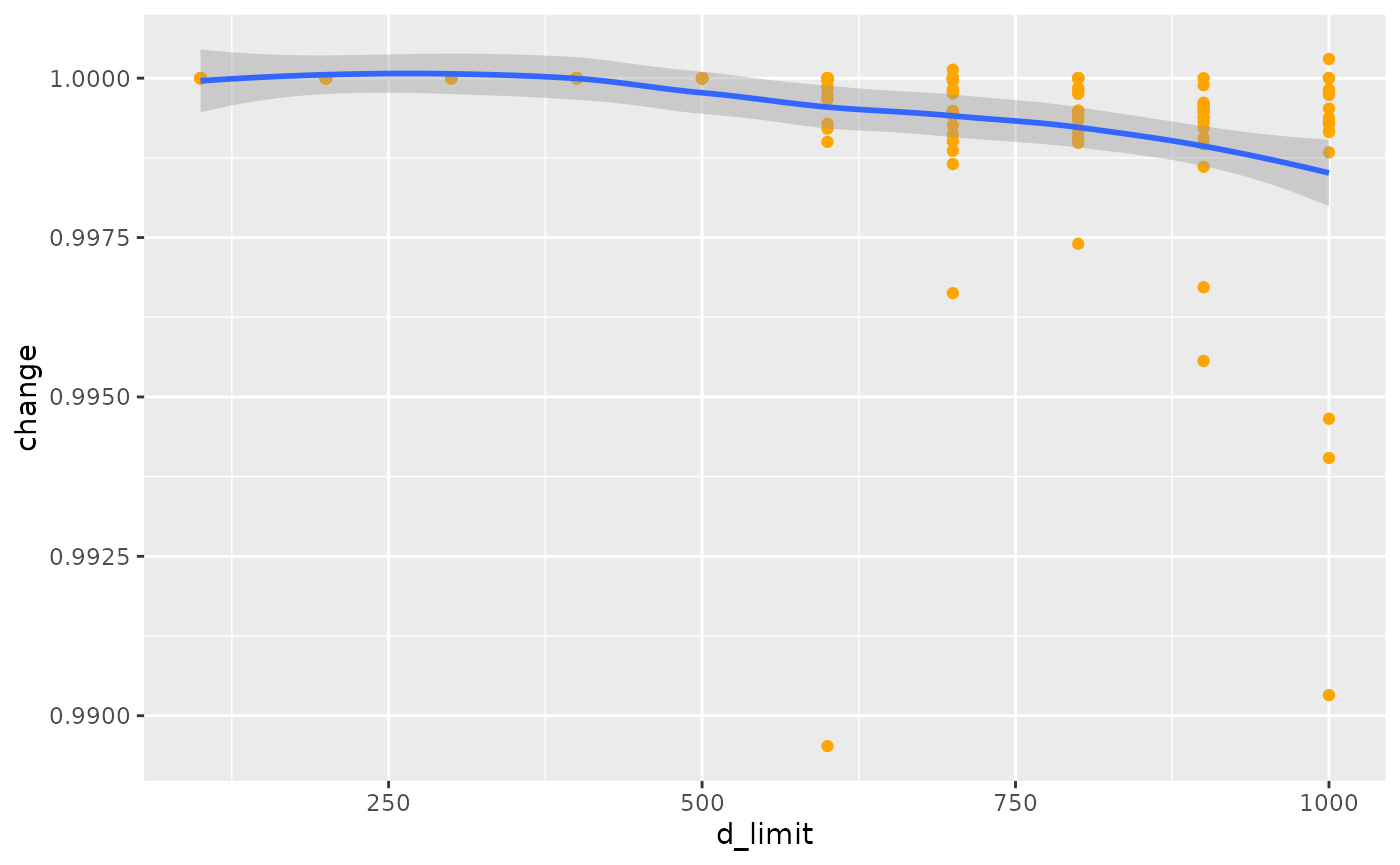
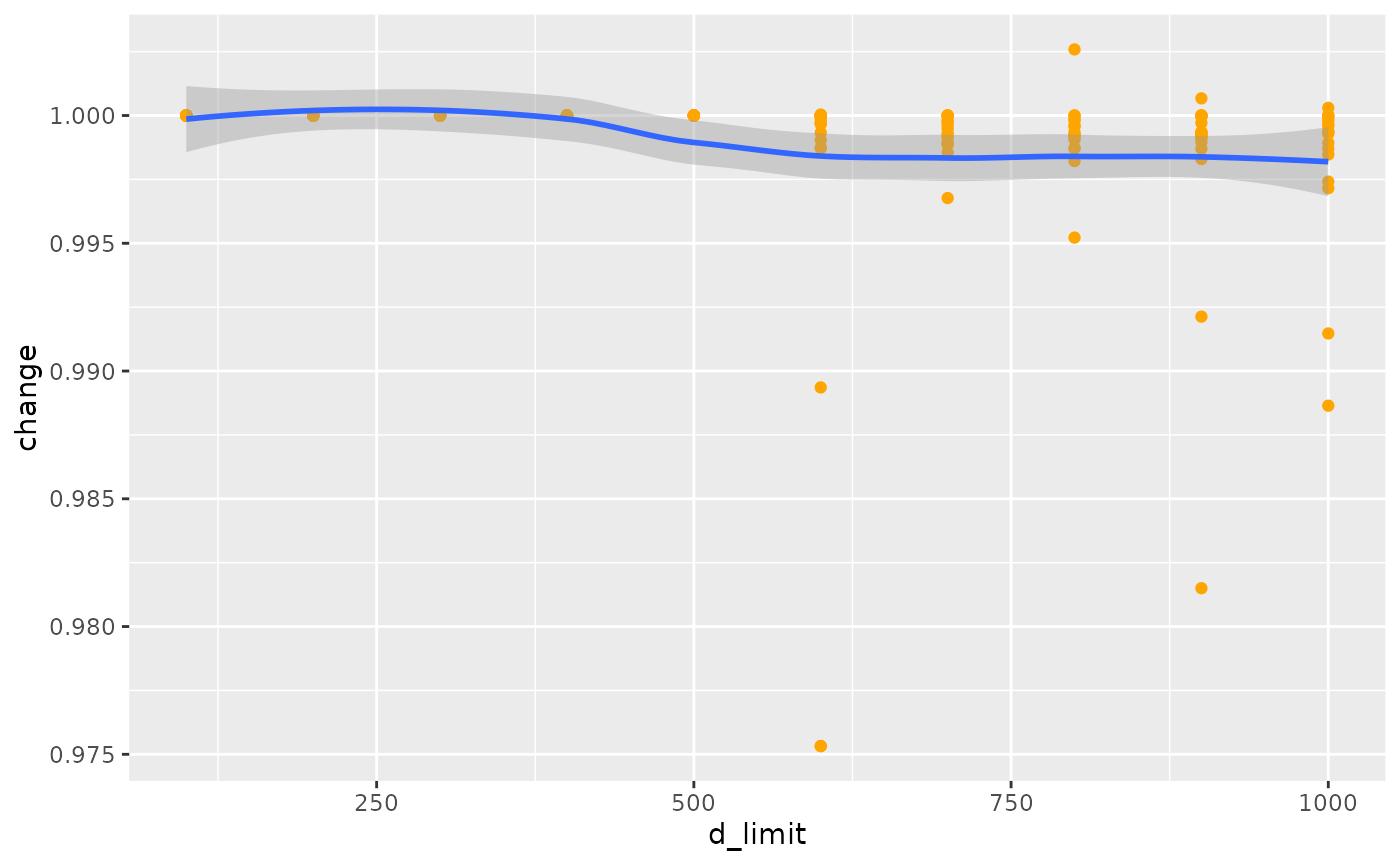
Deploying to gh-pages from @ ATFutures/gtfs-router@5fed2d2fdbcadecbe89e69d0f73cd9c62099b63e 🚀

diff --git a/docs/articles/transfers.html b/docs/articles/transfers.html
@@ -33,7 +33,7 @@
       </button>
       <span class="navbar-brand">
         <a class="navbar-link" href="../index.html">gtfsrouter</a>
-        <span class="version label label-default" data-toggle="tooltip" data-placement="bottom" title="">0.0.5.100</span>
+        <span class="version label label-default" data-toggle="tooltip" data-placement="bottom" title="">0.0.5.101</span>
       </span>
     </div>
 
@@ -72,7 +72,7 @@
       <h1 data-toc-skip>Transfer Tables</h1>
                         <h4 data-toc-skip class="author">Mark Padgham</h4>
             
-            <h4 data-toc-skip class="date">2022-08-17</h4>
+            <h4 data-toc-skip class="date">2022-09-21</h4>
       
       <small class="dont-index">Source: <a href="https://github.com/ATFutures/gtfs-router/blob/HEAD/vignettes/transfers.Rmd" class="external-link"><code>vignettes/transfers.Rmd</code></a></small>
       <div class="hidden name"><code>transfers.Rmd</code></div>
@@ -447,7 +447,7 @@
 <span>    <span class="fu"><a href="https://ggplot2.tidyverse.org/reference/scale_continuous.html" class="external-link">scale_y_log10</a></span> <span class="op">(</span><span class="op">)</span> <span class="op">+</span></span>
 <span>    <span class="fu"><a href="https://ggplot2.tidyverse.org/reference/labs.html" class="external-link">xlab</a></span> <span class="op">(</span><span class="st">"time difference (minutes)"</span><span class="op">)</span></span></code></pre></div>
 <p><img src="transfers_files/figure-html/plot1-1.png" width="700"></p>
-<p>And these additional transfer possibilities can make a significant difference to estimated travel times. Note, however, that the travel times only changed for 669 stations, while the value of <code>nsame</code> value recording numbers of stations for which travel times did not change was 5,384. Travel times may also increase as additional transfers may be used to reduce numbers of connecting services required for a particular trip, and the algorithm generally searches for connections with minimal numbers of transfers.</p>
+<p>And these additional transfer possibilities can make a significant difference to estimated travel times. Note, however, that the travel times only changed for 461 stations, while the value of <code>nsame</code> value recording numbers of stations for which travel times did not change was 3,896. Travel times may also increase as additional transfers may be used to reduce numbers of connecting services required for a particular trip, and the algorithm generally searches for connections with minimal numbers of transfers.</p>
 <p>The following code the quantifies the overall effect of these reductions in travel times, measured as the linear reduction in comparison with travel times calculated using the original transfers table provided with the feed. The function also returns the proportion of all stations for which travel times were affected by the modified transfer table.</p>
 <div class="sourceCode" id="cb42"><pre class="downlit sourceCode r">
 <code class="sourceCode R"><span><span class="va">transfer_difference</span> <span class="op">&lt;-</span> <span class="kw">function</span> <span class="op">(</span><span class="va">gtfs</span>,</span>
@@ -514,7 +514,7 @@
 <span>    <span class="fu"><a href="https://ggplot2.tidyverse.org/reference/geom_point.html" class="external-link">geom_point</a></span> <span class="op">(</span>pch <span class="op">=</span> <span class="fl">19</span>, col <span class="op">=</span> <span class="st">"orange"</span><span class="op">)</span> <span class="op">+</span></span>
 <span>    <span class="fu"><a href="https://ggplot2.tidyverse.org/reference/geom_smooth.html" class="external-link">geom_smooth</a></span> <span class="op">(</span>method <span class="op">=</span> <span class="st">"loess"</span>, formula <span class="op">=</span> <span class="st">"y ~ x"</span><span class="op">)</span></span></code></pre></div>
 <p><img src="transfers_files/figure-html/transfer_d_limit_results-1.png" width="700"></p>
-<p>That result shows that travel times do decrease with increasing limits of maximal transfer distance, although the overall effect is very minimal. The object <code>d</code> also records the proportion of station pairs for which modifications to the transfers table actually changed travel times, which in this case amounts to a mean value of 0.0038, clearly revealing that very few trips actually change.</p>
+<p>That result shows that travel times do decrease with increasing limits of maximal transfer distance, although the overall effect is very minimal. The object <code>d</code> also records the proportion of station pairs for which modifications to the transfers table actually changed travel times, which in this case amounts to a mean value of 0.0061, clearly revealing that very few trips actually change.</p>
 <div class="section level3">
 <h3 id="a-more-realistic-example">A more realistic example<a class="anchor" aria-label="anchor" href="#a-more-realistic-example"></a>
 </h3>

diff --git a/docs/articles/gtfsrouter.html b/docs/articles/gtfsrouter.html
@@ -33,7 +33,7 @@
       </button>
       <span class="navbar-brand">
         <a class="navbar-link" href="../index.html">gtfsrouter</a>
-        <span class="version label label-default" data-toggle="tooltip" data-placement="bottom" title="">0.0.5.100</span>
+        <span class="version label label-default" data-toggle="tooltip" data-placement="bottom" title="">0.0.5.101</span>
       </span>
     </div>
 
@@ -72,7 +72,7 @@
       <h1 data-toc-skip>gtfsrouter</h1>
                         <h4 data-toc-skip class="author">Mark Padgham</h4>
             
-            <h4 data-toc-skip class="date">2022-08-17</h4>
+            <h4 data-toc-skip class="date">2022-09-21</h4>
       
       <small class="dont-index">Source: <a href="https://github.com/ATFutures/gtfs-router/blob/HEAD/vignettes/gtfsrouter.Rmd" class="external-link"><code>vignettes/gtfsrouter.Rmd</code></a></small>
       <div class="hidden name"><code>gtfsrouter.Rmd</code></div>
@@ -95,7 +95,7 @@
 <p>The one thing neither of these packages enable is the use of GTFS data for transit routing. The <code>gtfsrouter</code> package enables both one-to-one and one-to-many routing. Functionality is demonstrated here through the sample data set included with the package, provided by the “Verkehrsverbund Berlin-Brandenburg” (VBB; or Transport Network Berlin-Brandenburg). The <code>berlin_gtfs</code> data represents a reduced version of the full GTFS data, containing only six tables, and a timetable reduced to the single hour between 12:00-13:00. Like all GTFS software including <a href="https://github.com/r-transit/tidytransit" class="external-link"><code>tidytransit</code></a>, this package is designed to work directly with GTFS data in <code>.zip</code>-archived format, and so includes a helper function, <code><a href="../reference/berlin_gtfs_to_zip.html">berlin_gtfs_to_zip()</a></code>, which exports the internal data set to a locally-stored <code>.zip</code> archive in the <code><a href="https://rdrr.io/r/base/tempfile.html" class="external-link">tempdir()</a></code> of the current <strong>R</strong> session. These data can be exported and re-imported with:</p>
 <div class="sourceCode" id="cb1"><pre class="downlit sourceCode r">
 <code class="sourceCode R"><span><span class="fu"><a href="../reference/berlin_gtfs_to_zip.html">berlin_gtfs_to_zip</a></span><span class="op">(</span><span class="op">)</span></span></code></pre></div>
-<pre><code><span><span class="co">## [1] "/tmp/Rtmpo3vffr/vbb.zip"</span></span></code></pre>
+<pre><code><span><span class="co">## [1] "/tmp/RtmpgCS5mX/vbb.zip"</span></span></code></pre>
 <div class="sourceCode" id="cb3"><pre class="downlit sourceCode r">
 <code class="sourceCode R"><span><span class="va">f</span> <span class="op">&lt;-</span> <span class="fu"><a href="https://rdrr.io/r/base/file.path.html" class="external-link">file.path</a></span> <span class="op">(</span><span class="fu"><a href="https://rdrr.io/r/base/tempfile.html" class="external-link">tempdir</a></span> <span class="op">(</span><span class="op">)</span>, <span class="st">"vbb.zip"</span><span class="op">)</span></span>
 <span><span class="fu"><a href="https://rdrr.io/r/base/files.html" class="external-link">file.exists</a></span> <span class="op">(</span><span class="va">f</span><span class="op">)</span></span></code></pre></div>
@@ -286,7 +286,7 @@
 <span>                day <span class="op">=</span> <span class="st">"Sunday"</span><span class="op">)</span></span>
 <span>    <span class="op">)</span></span></code></pre></div>
 <pre><code><span><span class="co">##    user  system elapsed </span></span>
-<span><span class="co">##   0.073   0.000   0.073</span></span></code></pre>
+<span><span class="co">##   0.065   0.000   0.064</span></span></code></pre>
 <div class="sourceCode" id="cb14"><pre class="downlit sourceCode r">
 <code class="sourceCode R"><span><span class="fu"><a href="https://rdrr.io/r/base/names.html" class="external-link">names</a></span> <span class="op">(</span><span class="va">gtfs</span><span class="op">)</span></span></code></pre></div>
 <pre><code><span><span class="co">## [1] "calendar"   "routes"     "trips"      "stop_times" "stops"     </span></span>
@@ -304,7 +304,7 @@
 <span>                         to <span class="op">=</span> <span class="va">to</span>,</span>
 <span>                         start_time <span class="op">=</span> <span class="st">"12:00:00"</span><span class="op">)</span><span class="op">)</span></span></code></pre></div>
 <pre><code><span><span class="co">##    user  system elapsed </span></span>
-<span><span class="co">##   0.059   0.000   0.059</span></span></code></pre>
+<span><span class="co">##   0.049   0.000   0.049</span></span></code></pre>
 <p>Note that the <code>day</code> parameter is used to extract the timetable, after which it is no longer required in the actual call to <code><a href="../reference/gtfs_route.html">gtfs_route()</a></code>.</p>
 </div>
 <div class="section level3">

diff --git a/docs/articles/traveltimes.html b/docs/articles/traveltimes.html
@@ -33,7 +33,7 @@
       </button>
       <span class="navbar-brand">
         <a class="navbar-link" href="../index.html">gtfsrouter</a>
-        <span class="version label label-default" data-toggle="tooltip" data-placement="bottom" title="">0.0.5.100</span>
+        <span class="version label label-default" data-toggle="tooltip" data-placement="bottom" title="">0.0.5.101</span>
       </span>
     </div>
 
@@ -72,7 +72,7 @@
       <h1 data-toc-skip>Travel Times</h1>
                         <h4 data-toc-skip class="author">Mark Padgham &amp; Alexandra Kapp</h4>
             
-            <h4 data-toc-skip class="date">2022-08-17</h4>
+            <h4 data-toc-skip class="date">2022-09-21</h4>
       
       <small class="dont-index">Source: <a href="https://github.com/ATFutures/gtfs-router/blob/HEAD/vignettes/traveltimes.Rmd" class="external-link"><code>vignettes/traveltimes.Rmd</code></a></small>
       <div class="hidden name"><code>traveltimes.Rmd</code></div>
@@ -86,7 +86,7 @@
 <div class="sourceCode" id="cb1"><pre class="downlit sourceCode r">
 <code class="sourceCode R"><span><span class="kw"><a href="https://rdrr.io/r/base/library.html" class="external-link">library</a></span> <span class="op">(</span><span class="va"><a href="https://github.com/ATFutures/gtfs-router" class="external-link">gtfsrouter</a></span><span class="op">)</span></span>
 <span><span class="fu"><a href="../reference/berlin_gtfs_to_zip.html">berlin_gtfs_to_zip</a></span> <span class="op">(</span><span class="op">)</span></span></code></pre></div>
-<pre><code><span><span class="co">## [1] "/tmp/Rtmpqy8Cuo/vbb.zip"</span></span></code></pre>
+<pre><code><span><span class="co">## [1] "/tmp/RtmpFMMNQF/vbb.zip"</span></span></code></pre>
 <div class="sourceCode" id="cb3"><pre class="downlit sourceCode r">
 <code class="sourceCode R"><span><span class="va">f</span> <span class="op">&lt;-</span> <span class="fu"><a href="https://rdrr.io/r/base/file.path.html" class="external-link">file.path</a></span> <span class="op">(</span><span class="fu"><a href="https://rdrr.io/r/base/tempfile.html" class="external-link">tempdir</a></span> <span class="op">(</span><span class="op">)</span>, <span class="st">"vbb.zip"</span><span class="op">)</span></span>
 <span><span class="va">gtfs</span> <span class="op">&lt;-</span> <span class="fu"><a href="../reference/extract_gtfs.html">extract_gtfs</a></span> <span class="op">(</span><span class="va">f</span>, quiet <span class="op">=</span> <span class="cn">TRUE</span><span class="op">)</span></span>

diff --git a/docs/reference/gtfs_transfer_table.html b/docs/reference/gtfs_transfer_table.html
@@ -17,7 +17,7 @@
       </button>
       <span class="navbar-brand">
         <a class="navbar-link" href="../index.html">gtfsrouter</a>
-        <span class="version label label-default" data-toggle="tooltip" data-placement="bottom" title="">0.0.5.100</span>
+        <span class="version label label-default" data-toggle="tooltip" data-placement="bottom" title="">0.0.5.101</span>
       </span>
     </div>
 
@@ -112,7 +112,7 @@ throughout the underlying street network. If this is not provided as the
     <div id="ref-examples">
     <h2>Examples</h2>
     <div class="sourceCode"><pre class="sourceCode r"><code><span class="r-in"><span><span class="fu"><a href="berlin_gtfs_to_zip.html">berlin_gtfs_to_zip</a></span> <span class="op">(</span><span class="op">)</span></span></span>
-<span class="r-out co"><span class="r-pr">#&gt;</span> [1] "/tmp/Rtmp73Rf3x/vbb.zip"</span>
+<span class="r-out co"><span class="r-pr">#&gt;</span> [1] "/tmp/RtmpMFn162/vbb.zip"</span>
 <span class="r-in"><span><span class="va">f</span> <span class="op">&lt;-</span> <span class="fu"><a href="https://rdrr.io/r/base/file.path.html" class="external-link">file.path</a></span> <span class="op">(</span><span class="fu"><a href="https://rdrr.io/r/base/tempfile.html" class="external-link">tempdir</a></span> <span class="op">(</span><span class="op">)</span>, <span class="st">"vbb.zip"</span><span class="op">)</span></span></span>
 <span class="r-in"><span><span class="va">g</span> <span class="op">&lt;-</span> <span class="fu"><a href="extract_gtfs.html">extract_gtfs</a></span> <span class="op">(</span><span class="va">f</span>, quiet <span class="op">=</span> <span class="cn">TRUE</span><span class="op">)</span></span></span>
 <span class="r-in"><span><span class="va">g</span> <span class="op">&lt;-</span> <span class="fu">gtfs_transfer_table</span> <span class="op">(</span><span class="va">g</span>, d_limit <span class="op">=</span> <span class="fl">200</span><span class="op">)</span></span></span>

diff --git a/docs/reference/gtfs_route.html b/docs/reference/gtfs_route.html
@@ -18,7 +18,7 @@ a specified time."><!-- mathjax --><script src="https://cdnjs.cloudflare.com/aja
       </button>
       <span class="navbar-brand">
         <a class="navbar-link" href="../index.html">gtfsrouter</a>
-        <span class="version label label-default" data-toggle="tooltip" data-placement="bottom" title="">0.0.5.100</span>
+        <span class="version label label-default" data-toggle="tooltip" data-placement="bottom" title="">0.0.5.101</span>
       </span>
     </div>
 
@@ -182,7 +182,7 @@ can be calculated by setting <code>earliest_arrival = FALSE</code>.</p>
     <div id="ref-examples">
     <h2>Examples</h2>
     <div class="sourceCode"><pre class="sourceCode r"><code><span class="r-in"><span><span class="fu"><a href="berlin_gtfs_to_zip.html">berlin_gtfs_to_zip</a></span> <span class="op">(</span><span class="op">)</span> <span class="co"># Write sample feed from Berlin, Germany to tempdir</span></span></span>
-<span class="r-out co"><span class="r-pr">#&gt;</span> [1] "/tmp/Rtmp73Rf3x/vbb.zip"</span>
+<span class="r-out co"><span class="r-pr">#&gt;</span> [1] "/tmp/RtmpMFn162/vbb.zip"</span>
 <span class="r-in"><span><span class="va">f</span> <span class="op">&lt;-</span> <span class="fu"><a href="https://rdrr.io/r/base/file.path.html" class="external-link">file.path</a></span> <span class="op">(</span><span class="fu"><a href="https://rdrr.io/r/base/tempfile.html" class="external-link">tempdir</a></span> <span class="op">(</span><span class="op">)</span>, <span class="st">"vbb.zip"</span><span class="op">)</span> <span class="co"># name of feed</span></span></span>
 <span class="r-in"><span><span class="va">gtfs</span> <span class="op">&lt;-</span> <span class="fu"><a href="extract_gtfs.html">extract_gtfs</a></span> <span class="op">(</span><span class="va">f</span><span class="op">)</span></span></span>
 <span class="r-msg co"><span class="r-pr">#&gt;</span> ▶<span style="color: #00BB00;"> Unzipping GTFS archive</span></span>

diff --git a/docs/reference/berlin_gtfs.html b/docs/reference/berlin_gtfs.html
@@ -23,7 +23,7 @@ characters.'><!-- mathjax --><script src="https://cdnjs.cloudflare.com/ajax/libs
       </button>
       <span class="navbar-brand">
         <a class="navbar-link" href="../index.html">gtfsrouter</a>
-        <span class="version label label-default" data-toggle="tooltip" data-placement="bottom" title="">0.0.5.100</span>
+        <span class="version label label-default" data-toggle="tooltip" data-placement="bottom" title="">0.0.5.101</span>
       </span>
     </div>
 
@@ -96,7 +96,7 @@ for which no route is possible return <code>NULL</code>.</p>
     <div id="ref-examples">
     <h2>Examples</h2>
     <div class="sourceCode"><pre class="sourceCode r"><code><span class="r-in"><span><span class="fu"><a href="berlin_gtfs_to_zip.html">berlin_gtfs_to_zip</a></span> <span class="op">(</span><span class="op">)</span> <span class="co"># Write sample feed from Berlin, Germany to tempdir</span></span></span>
-<span class="r-out co"><span class="r-pr">#&gt;</span> [1] "/tmp/Rtmp73Rf3x/vbb.zip"</span>
+<span class="r-out co"><span class="r-pr">#&gt;</span> [1] "/tmp/RtmpMFn162/vbb.zip"</span>
 <span class="r-in"><span><span class="va">f</span> <span class="op">&lt;-</span> <span class="fu"><a href="https://rdrr.io/r/base/file.path.html" class="external-link">file.path</a></span> <span class="op">(</span><span class="fu"><a href="https://rdrr.io/r/base/tempfile.html" class="external-link">tempdir</a></span> <span class="op">(</span><span class="op">)</span>, <span class="st">"vbb.zip"</span><span class="op">)</span> <span class="co"># name of feed</span></span></span>
 <span class="r-in"><span><span class="va">gtfs</span> <span class="op">&lt;-</span> <span class="fu"><a href="extract_gtfs.html">extract_gtfs</a></span> <span class="op">(</span><span class="va">f</span><span class="op">)</span></span></span>
 <span class="r-msg co"><span class="r-pr">#&gt;</span> ▶<span style="color: #00BB00;"> Unzipping GTFS archive</span></span>

diff --git a/docs/reference/gtfs_timetable.html b/docs/reference/gtfs_timetable.html
@@ -17,7 +17,7 @@
       </button>
       <span class="navbar-brand">
         <a class="navbar-link" href="../index.html">gtfsrouter</a>
-        <span class="version label label-default" data-toggle="tooltip" data-placement="bottom" title="">0.0.5.100</span>
+        <span class="version label label-default" data-toggle="tooltip" data-placement="bottom" title="">0.0.5.101</span>
       </span>
     </div>
 
@@ -126,7 +126,7 @@ that case will generally take longer.</p>
     <div id="ref-examples">
     <h2>Examples</h2>
     <div class="sourceCode"><pre class="sourceCode r"><code><span class="r-in"><span><span class="fu"><a href="berlin_gtfs_to_zip.html">berlin_gtfs_to_zip</a></span> <span class="op">(</span><span class="op">)</span> <span class="co"># Write sample feed from Berlin, Germany to tempdir</span></span></span>
-<span class="r-out co"><span class="r-pr">#&gt;</span> [1] "/tmp/Rtmp73Rf3x/vbb.zip"</span>
+<span class="r-out co"><span class="r-pr">#&gt;</span> [1] "/tmp/RtmpMFn162/vbb.zip"</span>
 <span class="r-in"><span><span class="va">f</span> <span class="op">&lt;-</span> <span class="fu"><a href="https://rdrr.io/r/base/file.path.html" class="external-link">file.path</a></span> <span class="op">(</span><span class="fu"><a href="https://rdrr.io/r/base/tempfile.html" class="external-link">tempdir</a></span> <span class="op">(</span><span class="op">)</span>, <span class="st">"vbb.zip"</span><span class="op">)</span> <span class="co"># name of feed</span></span></span>
 <span class="r-in"><span><span class="va">gtfs</span> <span class="op">&lt;-</span> <span class="fu"><a href="extract_gtfs.html">extract_gtfs</a></span> <span class="op">(</span><span class="va">f</span><span class="op">)</span></span></span>
 <span class="r-msg co"><span class="r-pr">#&gt;</span> ▶<span style="color: #00BB00;"> Unzipping GTFS archive</span></span>

diff --git a/docs/reference/gtfs_traveltimes.html b/docs/reference/gtfs_traveltimes.html
@@ -18,7 +18,7 @@ other reachable station in a system."><!-- mathjax --><script src="https://cdnjs
       </button>
       <span class="navbar-brand">
         <a class="navbar-link" href="../index.html">gtfsrouter</a>
-        <span class="version label label-default" data-toggle="tooltip" data-placement="bottom" title="">0.0.5.100</span>
+        <span class="version label label-default" data-toggle="tooltip" data-placement="bottom" title="">0.0.5.101</span>
       </span>
     </div>
 
@@ -155,7 +155,7 @@ to reach all or most stations desired for a particular query, rather than set
     <div id="ref-examples">
     <h2>Examples</h2>
     <div class="sourceCode"><pre class="sourceCode r"><code><span class="r-in"><span><span class="fu"><a href="berlin_gtfs_to_zip.html">berlin_gtfs_to_zip</a></span> <span class="op">(</span><span class="op">)</span></span></span>
-<span class="r-out co"><span class="r-pr">#&gt;</span> [1] "/tmp/Rtmp73Rf3x/vbb.zip"</span>
+<span class="r-out co"><span class="r-pr">#&gt;</span> [1] "/tmp/RtmpMFn162/vbb.zip"</span>
 <span class="r-in"><span><span class="va">f</span> <span class="op">&lt;-</span> <span class="fu"><a href="https://rdrr.io/r/base/file.path.html" class="external-link">file.path</a></span> <span class="op">(</span><span class="fu"><a href="https://rdrr.io/r/base/tempfile.html" class="external-link">tempdir</a></span> <span class="op">(</span><span class="op">)</span>, <span class="st">"vbb.zip"</span><span class="op">)</span></span></span>
 <span class="r-in"><span><span class="va">g</span> <span class="op">&lt;-</span> <span class="fu"><a href="extract_gtfs.html">extract_gtfs</a></span> <span class="op">(</span><span class="va">f</span><span class="op">)</span></span></span>
 <span class="r-msg co"><span class="r-pr">#&gt;</span> ▶<span style="color: #00BB00;"> Unzipping GTFS archive</span></span>

diff --git a/docs/reference/extract_gtfs.html b/docs/reference/extract_gtfs.html
@@ -17,7 +17,7 @@
       </button>
       <span class="navbar-brand">
         <a class="navbar-link" href="../index.html">gtfsrouter</a>
-        <span class="version label label-default" data-toggle="tooltip" data-placement="bottom" title="">0.0.5.100</span>
+        <span class="version label label-default" data-toggle="tooltip" data-placement="bottom" title="">0.0.5.101</span>
       </span>
     </div>
 
@@ -102,7 +102,7 @@ function to the two time columns of the "stop_times" table.</p>
     <div id="ref-examples">
     <h2>Examples</h2>
     <div class="sourceCode"><pre class="sourceCode r"><code><span class="r-in"><span><span class="fu"><a href="berlin_gtfs_to_zip.html">berlin_gtfs_to_zip</a></span> <span class="op">(</span><span class="op">)</span> <span class="co"># Write sample feed from Berlin, Germany to tempdir</span></span></span>
-<span class="r-out co"><span class="r-pr">#&gt;</span> [1] "/tmp/Rtmp73Rf3x/vbb.zip"</span>
+<span class="r-out co"><span class="r-pr">#&gt;</span> [1] "/tmp/RtmpMFn162/vbb.zip"</span>
 <span class="r-in"><span><span class="va">f</span> <span class="op">&lt;-</span> <span class="fu"><a href="https://rdrr.io/r/base/file.path.html" class="external-link">file.path</a></span> <span class="op">(</span><span class="fu"><a href="https://rdrr.io/r/base/tempfile.html" class="external-link">tempdir</a></span> <span class="op">(</span><span class="op">)</span>, <span class="st">"vbb.zip"</span><span class="op">)</span> <span class="co"># name of feed</span></span></span>
 <span class="r-in"><span><span class="va">gtfs</span> <span class="op">&lt;-</span> <span class="fu">extract_gtfs</span> <span class="op">(</span><span class="va">f</span><span class="op">)</span></span></span>
 <span class="r-msg co"><span class="r-pr">#&gt;</span> ▶<span style="color: #00BB00;"> Unzipping GTFS archive</span></span>

diff --git a/docs/reference/summary.gtfs.html b/docs/reference/summary.gtfs.html
@@ -17,7 +17,7 @@
       </button>
       <span class="navbar-brand">
         <a class="navbar-link" href="../index.html">gtfsrouter</a>
-        <span class="version label label-default" data-toggle="tooltip" data-placement="bottom" title="">0.0.5.100</span>
+        <span class="version label label-default" data-toggle="tooltip" data-placement="bottom" title="">0.0.5.101</span>
       </span>
     </div>
 
@@ -81,7 +81,7 @@
     <div id="ref-examples">
     <h2>Examples</h2>
     <div class="sourceCode"><pre class="sourceCode r"><code><span class="r-in"><span><span class="fu"><a href="berlin_gtfs_to_zip.html">berlin_gtfs_to_zip</a></span> <span class="op">(</span><span class="op">)</span></span></span>
-<span class="r-out co"><span class="r-pr">#&gt;</span> [1] "/tmp/Rtmp73Rf3x/vbb.zip"</span>
+<span class="r-out co"><span class="r-pr">#&gt;</span> [1] "/tmp/RtmpMFn162/vbb.zip"</span>
 <span class="r-in"><span><span class="va">f</span> <span class="op">&lt;-</span> <span class="fu"><a href="https://rdrr.io/r/base/file.path.html" class="external-link">file.path</a></span> <span class="op">(</span><span class="fu"><a href="https://rdrr.io/r/base/tempfile.html" class="external-link">tempdir</a></span> <span class="op">(</span><span class="op">)</span>, <span class="st">"vbb.zip"</span><span class="op">)</span></span></span>
 <span class="r-in"><span><span class="va">g</span> <span class="op">&lt;-</span> <span class="fu"><a href="extract_gtfs.html">extract_gtfs</a></span> <span class="op">(</span><span class="va">f</span><span class="op">)</span></span></span>
 <span class="r-msg co"><span class="r-pr">#&gt;</span> ▶<span style="color: #00BB00;"> Unzipping GTFS archive</span></span>

diff --git a/docs/authors.html b/docs/authors.html
@@ -17,7 +17,7 @@
       </button>
       <span class="navbar-brand">
         <a class="navbar-link" href="index.html">gtfsrouter</a>
-        <span class="version label label-default" data-toggle="tooltip" data-placement="bottom" title="">0.0.5.100</span>
+        <span class="version label label-default" data-toggle="tooltip" data-placement="bottom" title="">0.0.5.101</span>
       </span>
     </div>
 
@@ -74,13 +74,13 @@
 
     <p>Padgham M, Stepniak M (2022).
 <em>gtfsrouter: Routing with GTFS (General Transit Feed Specification) Data</em>.
-R package version 0.0.5.100, <a href="https://github.com/ATFutures/gtfs-router" class="external-link">https://github.com/ATFutures/gtfs-router</a>. 
+R package version 0.0.5.101, <a href="https://github.com/ATFutures/gtfs-router" class="external-link">https://github.com/ATFutures/gtfs-router</a>. 
 </p>
     <pre>@Manual{,
   title = {gtfsrouter: Routing with GTFS (General Transit Feed Specification) Data},
   author = {Mark Padgham and Marcin Stepniak},
   year = {2022},
-  note = {R package version 0.0.5.100},
+  note = {R package version 0.0.5.101},
   url = {https://github.com/ATFutures/gtfs-router},
 }</pre>
 

diff --git a/docs/reference/berlin_gtfs_to_zip.html b/docs/reference/berlin_gtfs_to_zip.html
@@ -18,7 +18,7 @@ a file named "vbb.zip" to tempdir().'><!-- mathjax --><script src="https://cdnjs
       </button>
       <span class="navbar-brand">
         <a class="navbar-link" href="../index.html">gtfsrouter</a>
-        <span class="version label label-default" data-toggle="tooltip" data-placement="bottom" title="">0.0.5.100</span>
+        <span class="version label label-default" data-toggle="tooltip" data-placement="bottom" title="">0.0.5.101</span>
       </span>
     </div>
 
